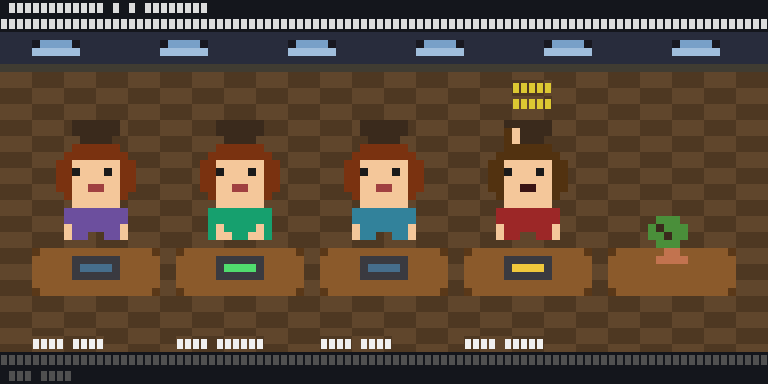
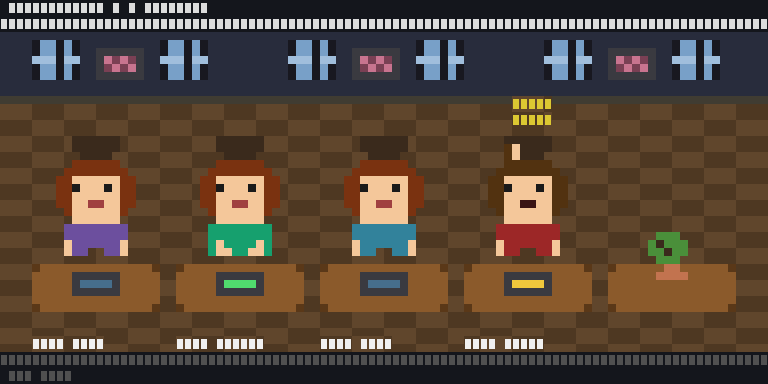
feat(tui): taller wall band + framed posters + breathing idle frame
- wall_h raised 4→8 px so windows can be properly tall (5 px) with cross
  mullions (horizontal + vertical)
- Pink/maroon poster sprite (6×4) painted in every other window gap
- idle.sprite gains a real frame-1 variation (subtle shoulder/chest shift)
  for breathing animation visible in the live TUI

Changed region(s): [[0.0, 0.0938, 1.0, 0.8125]]

diff --git a/crates/ascii-agents/src/tui/renderer.rs b/crates/ascii-agents/src/tui/renderer.rs
@@ -192,7 +192,7 @@ pub fn draw_scene<B: Backend>(
         let mut buf = RgbBuffer::filled(buf_w, buf_h, BG);
 
         // --- Background: top wall band + checkered floor below ---
-        let wall_h: u16 = 4; // top wall band
+        let wall_h: u16 = 8; // top wall band (tall enough for windows + posters)
         for y in 0..wall_h.min(buf_h) {
             for x in 0..buf_w {
                 buf.put(x, y, WALL);
@@ -208,19 +208,19 @@ pub fn draw_scene<B: Backend>(
         let floor_start = wall_h + 1;
         for y in floor_start..buf_h {
             for x in 0..buf_w {
-                // 4x2 px checker — readable as floor tiles from a distance.
                 let cell = ((x / 4) + ((y - floor_start) / 2)) % 2;
                 let c = if cell == 0 { FLOOR_A } else { FLOOR_B };
                 buf.put(x, y, c);
             }
         }
 
-        // --- Windows in the top wall band ---
+        // --- Windows + framed posters in the top wall band ---
         let window_w: u16 = 6;
-        let window_h: u16 = 2;
+        let window_h: u16 = 5;
         let window_y: u16 = 1;
         let stride: u16 = 16;
         let mut wx: u16 = 4;
+        let mut window_idx: u32 = 0;
         while wx + window_w < buf_w {
             for y in window_y..window_y + window_h {
                 for x in wx..wx + window_w {
@@ -230,14 +230,34 @@ pub fn draw_scene<B: Backend>(
                     }
                 }
             }
-            // Small horizontal mullion in the middle row.
+            // Horizontal mullion at mid-window.
             let mid = window_y + window_h / 2;
             for x in wx..wx + window_w {
                 if x < buf_w && mid < buf_h {
                     buf.put(x, mid, WINDOW_LIGHT_2);
                 }
             }
+            // Vertical mullion.
+            let vmid = wx + window_w / 2;
+            for y in window_y..window_y + window_h {
+                if vmid < buf_w && y < buf_h {
+                    buf.put(vmid, y, WINDOW_FRAME);
+                }
+            }
+            // Poster in every other gap, centered between this window and the next.
+            if window_idx % 2 == 0 {
+                let poster_x = wx + window_w + (stride - window_w) / 2 - 3;
+                let poster_y: u16 = 2;
+                if poster_x + 6 < buf_w {
+                    if let Some(anim) = pack.animation("poster") {
+                        if let Some(frame) = anim.frames.first() {
+                            blit_frame(frame, poster_x, poster_y, &mut buf);
+                        }
+                    }
+                }
+            }
             wx += stride;
+            window_idx += 1;
         }
 
         // --- Furniture + characters per desk slot ---

diff --git a/crates/ascii-agents/src/tui/embedded_pack.rs b/crates/ascii-agents/src/tui/embedded_pack.rs
@@ -14,6 +14,7 @@ pub fn load_default_pack() -> Result<Pack> {
     let chair = include_str!("../../../../assets/sprites/default/chair.sprite");
     let monitor = include_str!("../../../../assets/sprites/default/monitor.sprite");
     let plant = include_str!("../../../../assets/sprites/default/plant.sprite");
+    let poster = include_str!("../../../../assets/sprites/default/poster.sprite");
 
     load_pack_from_strings(
         pack_toml,
@@ -27,6 +28,7 @@ pub fn load_default_pack() -> Result<Pack> {
             ("chair.sprite", chair),
             ("monitor.sprite", monitor),
             ("plant.sprite", plant),
+            ("poster.sprite", poster),
         ],
     )
 }